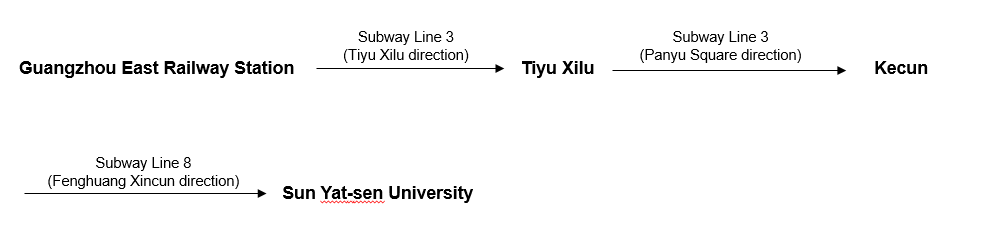
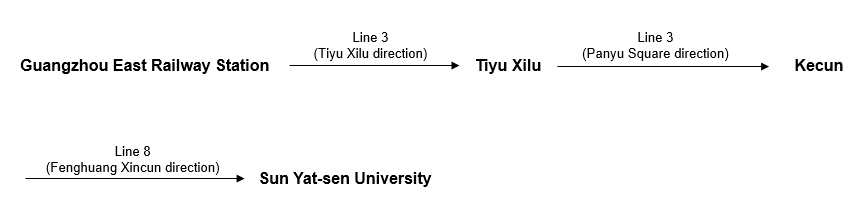
去掉venue中的subway (#18)

Changed region(s): [[0.0, 0.1415, 0.9954, 0.3679], [0.0311, 0.6792, 0.4977, 0.9057], [0.6843, 0.1415, 0.7776, 0.1981]]

diff --git a/ITW/templates/venue/venue.html b/ITW/templates/venue/venue.html
@@ -36,10 +36,9 @@
         <p>1) By Taxi: cost ~ 200 RMB, time ~ 50 mins, <a href="{{ url_for('main.show_driver') }}" target="_blank">show the driver</a></p>
         <p>2) By Airport Express Shuttle: cost ~ 20 RMB, time ~ 1 hr. Line 6 (To New Pearl River International Hotel) </p>
         <p>3) By Metro: cost 12 RMB, time ~ 1 hr 30 mins</p>
-        <div><img src="{{ url_for('static', filename='images/venue/route1.png') }}" width="90%"></div>
-        <br>
         <p>Note that Sun Yat-sen University metro station is 2km away from the venue. You are recommended to further take a taxi from the station.</p>
-
+        <div><img src="{{ url_for('static', filename='images/venue/route1.png') }}" width="85%"></div>
+        <br>
     </section>
 
     <section class="row">
@@ -48,9 +47,8 @@
         </h4>
         <p>1) By Taxi: cost ~ 40 RMB, time ~ 25 mins, <a href="{{ url_for('main.show_driver') }} " target="_blank">show the driver</a></p>
         <p>2) By Metro: cost 4 RMB, time ~ 23 mins</p>
-        <div><img src="{{ url_for('static', filename='images/venue/route2.png') }}"  width="100%"></div>
         <p>Note that Sun Yat-sen University metro station is 2km away from the venue. You are recommended to further take a taxi from the station.</p>
-
+        <div><img src="{{ url_for('static', filename='images/venue/route2.png') }}" width="90%"></div>
     </section>
 </article>
 
